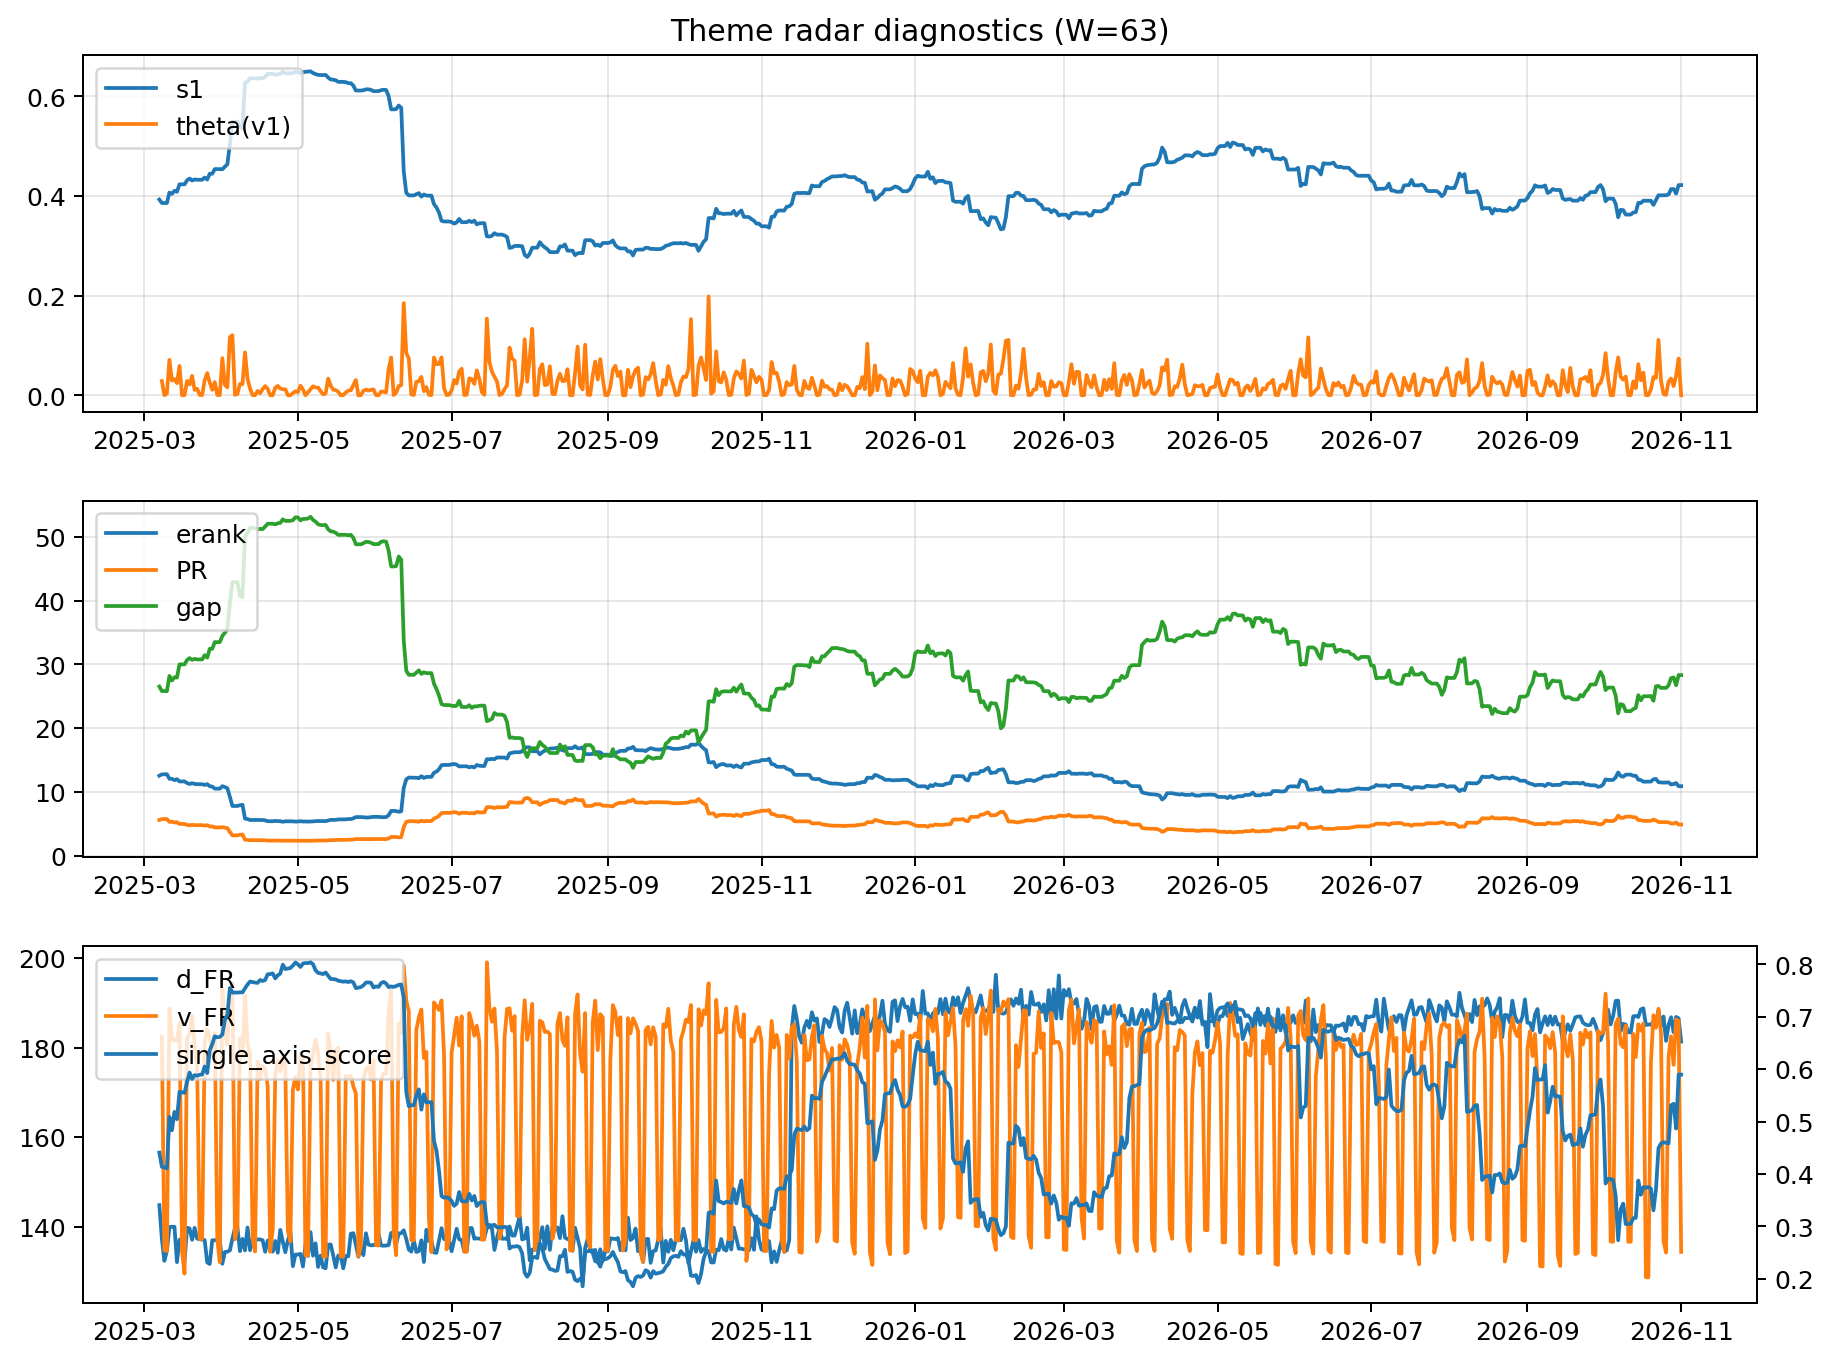
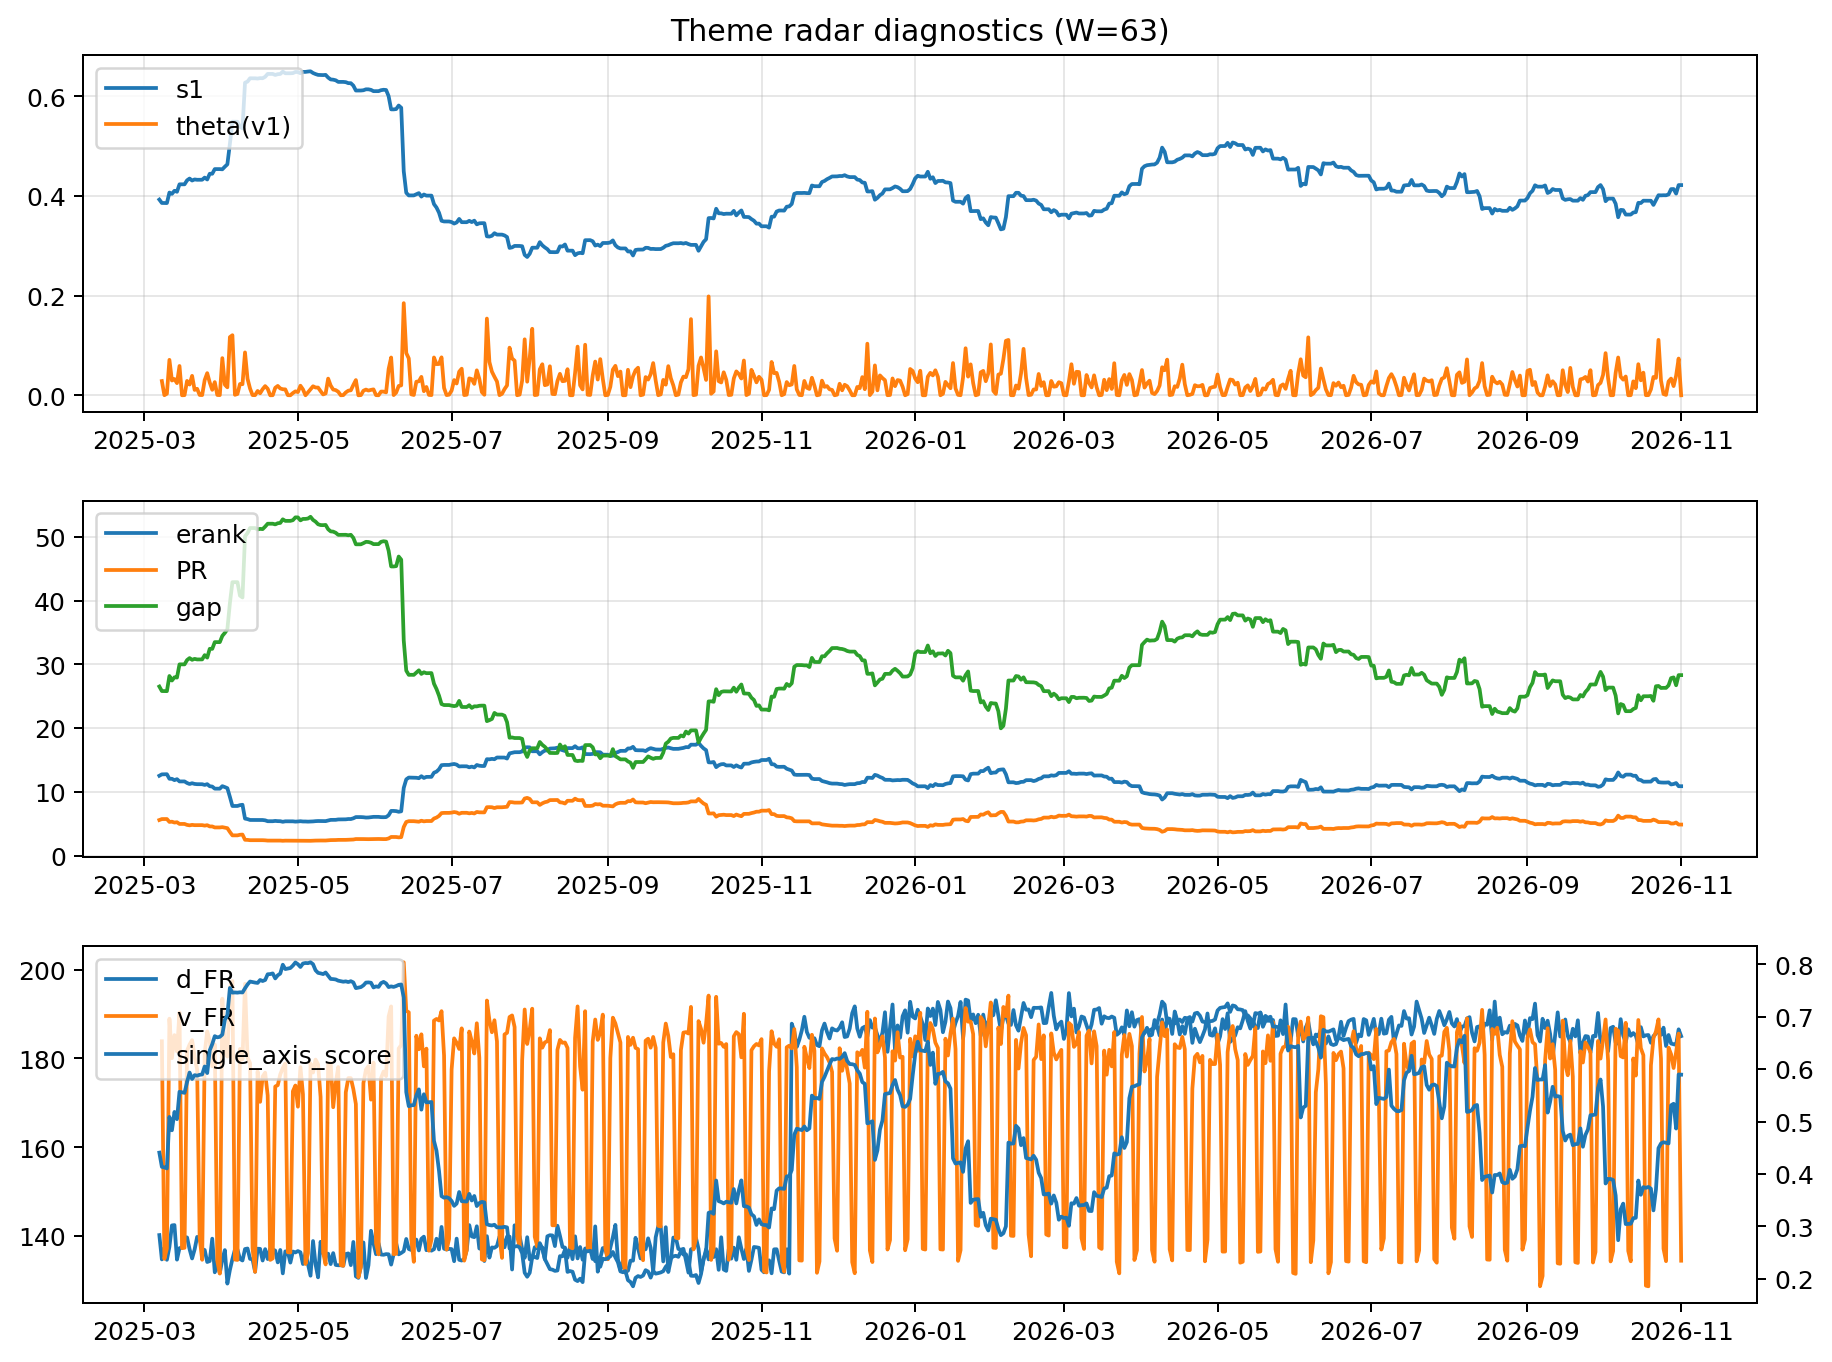
log: 2026-11-01 | sha256:f1ed3014a0c2e7a407881df762f1d95badca4725ab90c6cccdac19dfa05bb53b

diff --git a/logs/2026-11-01.md b/logs/2026-11-01.md
@@ -3,43 +3,43 @@
 ![diagnostic W63](../assets/diagnostic/2026-11-01_W63.png)
 
 ## Leaders (v1) — W=63
-- **Nuclear_Uranium** (0.079672586827342)
-- Semis (0.0714918098176843)
-- Space (0.0582155536903296)
+- **Nuclear_Uranium** (0.0796725877792618)
+- Semis (0.0714918093508592)
+- Space (0.0582155534905629)
 
 ## Challengers — W=63
-**v2:** Rates (0.1485247194327997), Semis (0.0835602606080938), Credit (0.0591219340633401)
-**v3:** Software_Cloud (0.1139363163894186), Crypto (0.0825918903129744), Grid_Power (0.0813797072800102)
+**v2:** Rates (0.1485247093202432), Semis (0.0835602507784795), Credit (0.0591219755167812)
+**v3:** Software_Cloud (0.1139363193492956), Crypto (0.0825918934117991), Grid_Power (0.0813797076954813)
 
 ## Migration (20D slope) — W=63
 **Top risers:**
-- axis_Semis: 0.0006060534720561
-- axis_MegaCap_AI: 0.0005394537503136
-- axis_Crypto: 0.0004411619807336
-- axis_Sector_ConsStap: 0.0003070921295347
-- axis_Software_Cloud: 0.0002902967618268
-- axis_Grid_Power: 0.000239713401373
-- axis_Cyber: 0.0002015482683465
-- axis_Metals: 0.0001430957124903
-- axis_Miners: 0.0001405494008113
-- axis_Critical_Minerals: 0.0001392153080417
+- axis_Semis: 0.0006060532387974
+- axis_MegaCap_AI: 0.0005394532338789
+- axis_Crypto: 0.0004411619294352
+- axis_Sector_ConsStap: 0.0003070922674255
+- axis_Software_Cloud: 0.0002902962719057
+- axis_Grid_Power: 0.0002397131652432
+- axis_Cyber: 0.0002015480005825
+- axis_Metals: 0.0001430955734492
+- axis_Miners: 0.0001405494037956
+- axis_Critical_Minerals: 0.0001392151918887
 
 **Top fallers:**
-- axis_Drones_Autonomy: -9.923009520979908e-05
-- axis_Equity_ExUS: -0.000126142095073
-- axis_Equity_US: -0.0001390808857211
-- axis_Clean_Broad: -0.0001535386426637
-- axis_Sector_Utilities: -0.0002172751880603
-- axis_Sector_Materials: -0.0002194548959971
-- axis_USD: -0.0002567386028172
-- axis_Sector_RealEstate: -0.0003088547744399
-- axis_Credit: -0.0004156485067396
-- axis_Rates: -0.001611815584152
+- axis_Drones_Autonomy: -9.923023491340028e-05
+- axis_Equity_ExUS: -0.0001261421929479
+- axis_Equity_US: -0.0001390813315066
+- axis_Clean_Broad: -0.0001535388688617
+- axis_Sector_Utilities: -0.0002172753152181
+- axis_Sector_Materials: -0.0002194549061896
+- axis_USD: -0.0002567386489311
+- axis_Sector_RealEstate: -0.0003088549291697
+- axis_Credit: -0.0004156424885969
+- axis_Rates: -0.001611815864514
 
 ## Risk line (W=63)
-- s1: 0.4216772890210359
-- theta_v1: 1.4312834879376849e-05
-- v_FR: 134.3440510372764
+- s1: 0.4216772901851052
+- theta_v1: 1.4312865906684317e-05
+- v_FR: 134.4199959186719
 - single_axis_score: 0.5894214876033057
 
 ## Interpretation
@@ -48,7 +48,7 @@
 - Action: Tomorrow watchlist: Semis, MegaCap_AI, Crypto, Sector_ConsStap, Software_Cloud + v2_top1=Rates
 - Action: Hedge note: normal correlation stability.
 
-- Percentiles (W=63 history): vfr_pct=0.08, theta_pct=0.01, s1_pct=0.62, score_pct=0.64.
+- Percentiles (W=63 history): vfr_pct=0.09, theta_pct=0.01, s1_pct=0.62, score_pct=0.64.
 
 ---
[2 lines of base64/hex data omitted]
